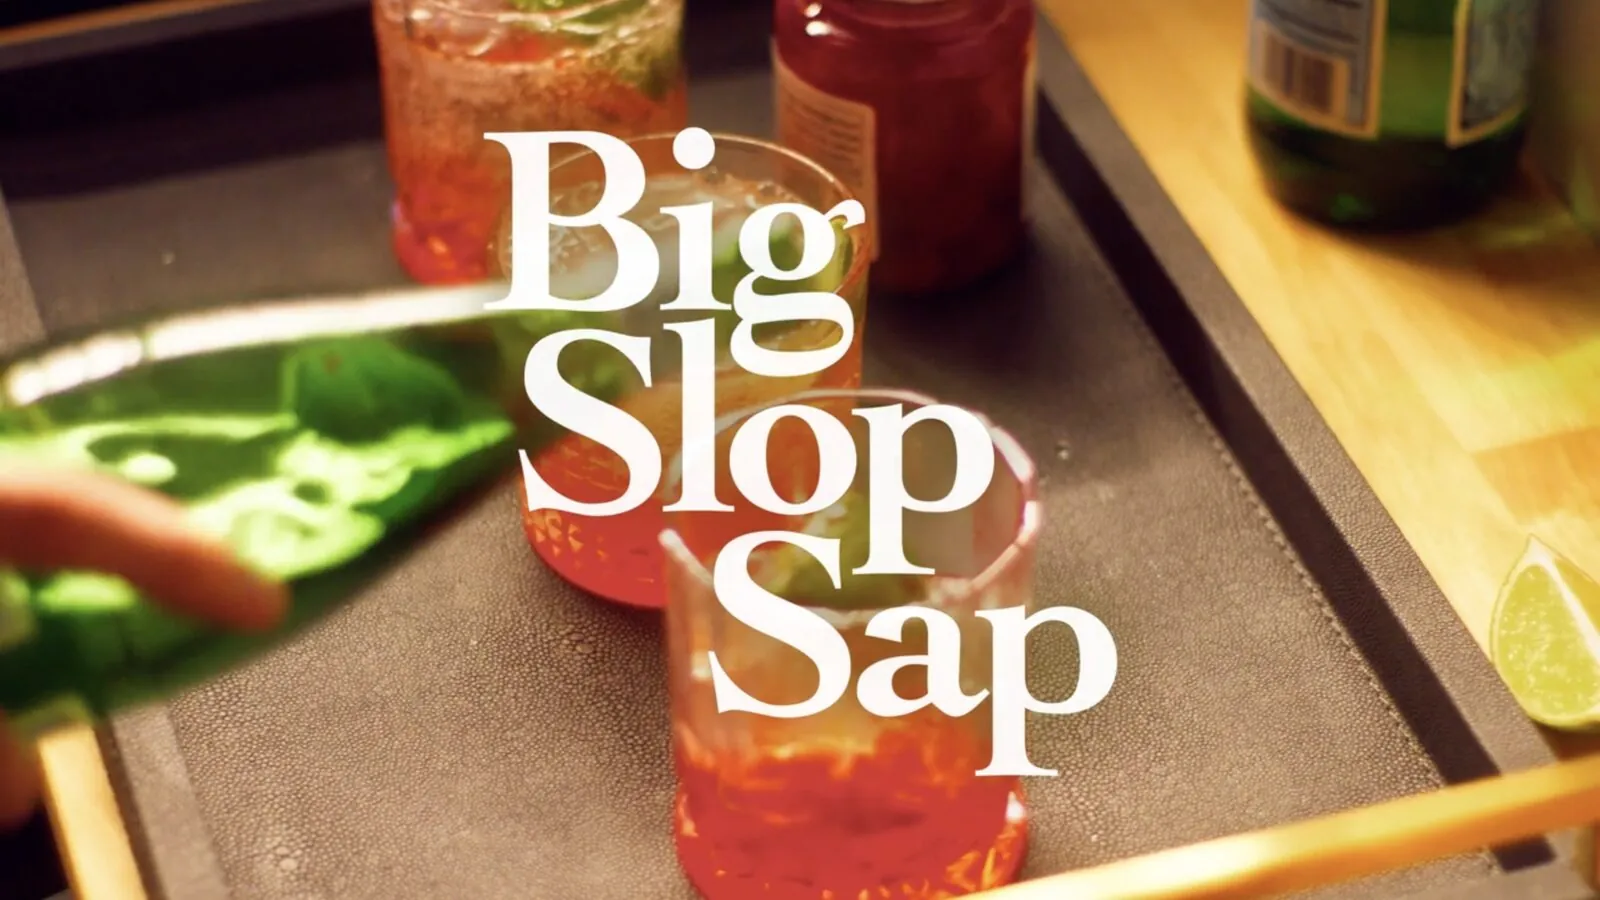
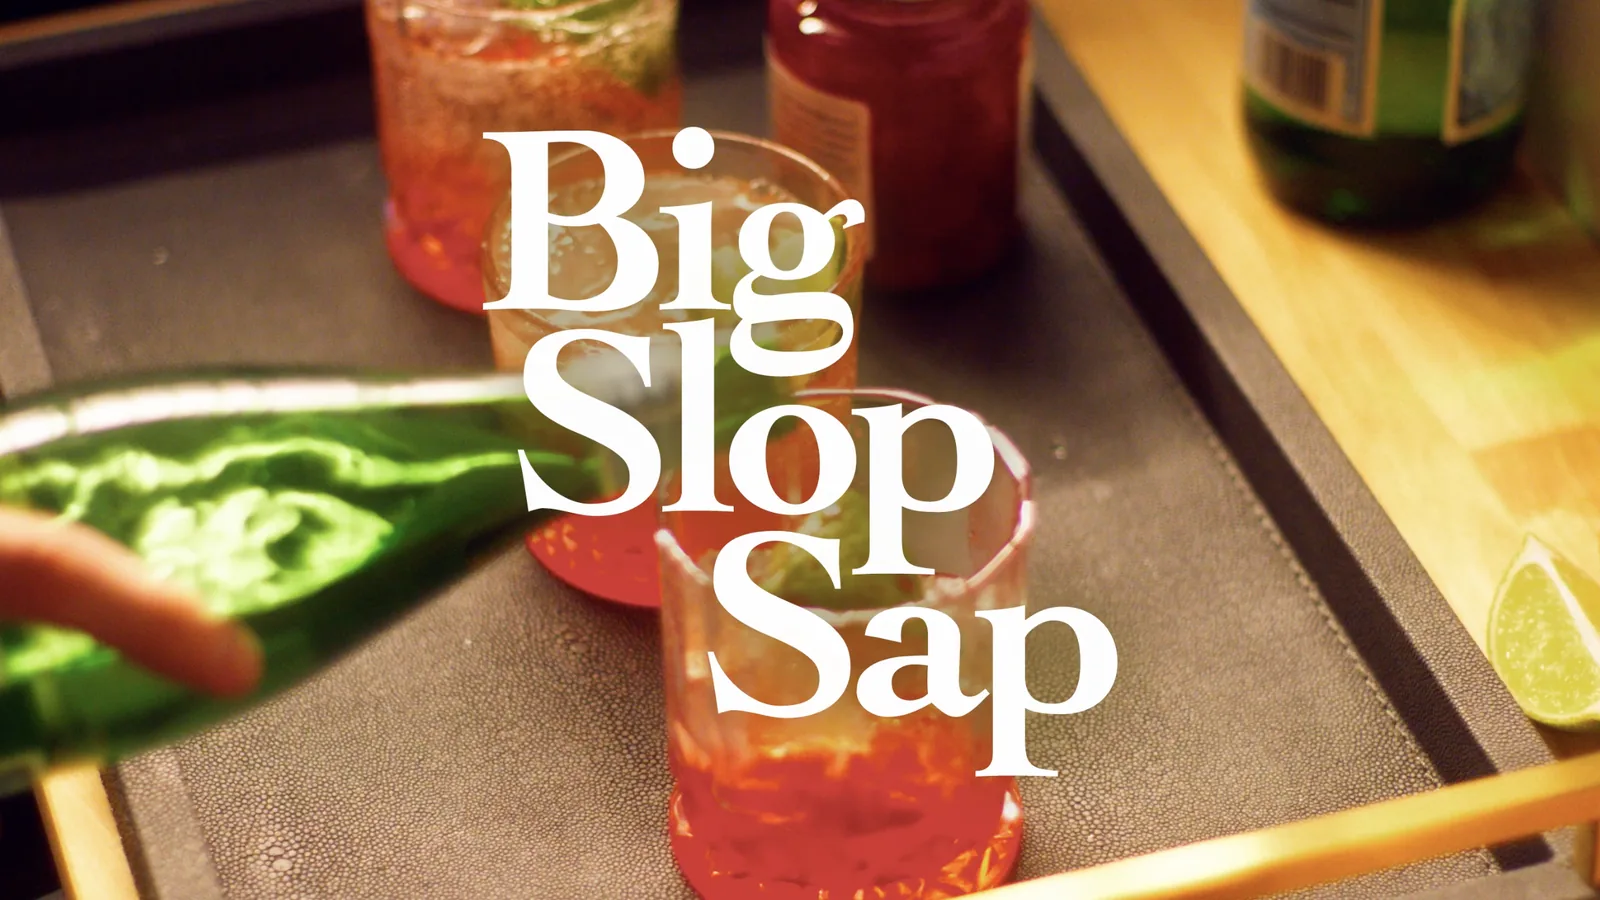
Big Slop Sap: higher-quality still
Claude-Session: https://claude.ai/code/session_01NhEa6Wb1sx8wMzvp2McT5a

diff --git a/index.html b/index.html
@@ -114,7 +114,7 @@
            TODO: set each href to its Vimeo/YouTube link and fill in role + year. -->
       <div class="films">
         <article class="film" style="--fhi:#e5483a">
-          <a href="https://vimeo.com/1055764935/4d7d18f487" target="_blank" rel="noopener" aria-label="Watch Big Slop Sap"><div class="tile"><img src="assets/stills/big-slop-sap.webp" alt="Still from Big Slop Sap" width="1600" height="900" loading="lazy"></div>
+          <a href="https://vimeo.com/1055764935/4d7d18f487" target="_blank" rel="noopener" aria-label="Watch Big Slop Sap"><div class="tile"><img src="assets/stills/big-slop-sap.webp?v=2" alt="Still from Big Slop Sap" width="1600" height="900" loading="lazy"></div>
           <div class="film-meta"><span class="film-title">Big Slop Sap</span><span class="film-sub rule-top"><span class="caps">Writer/Director</span><span class="year">2025</span></span></div></a>
         </article>
         <article class="film" style="--fhi:#f2cf63">
